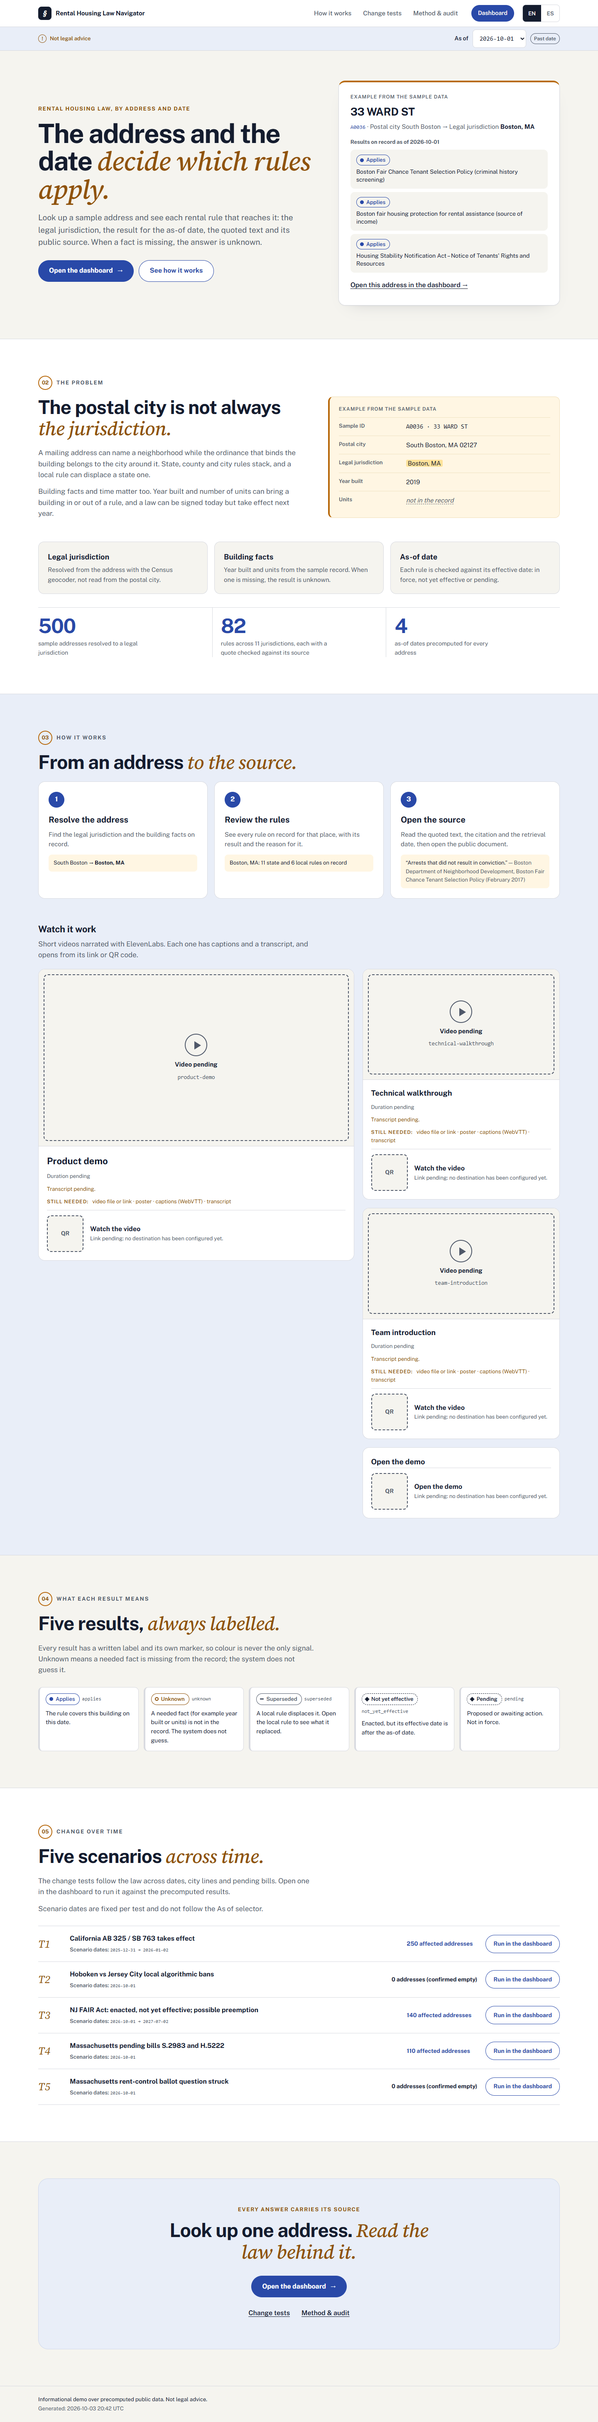
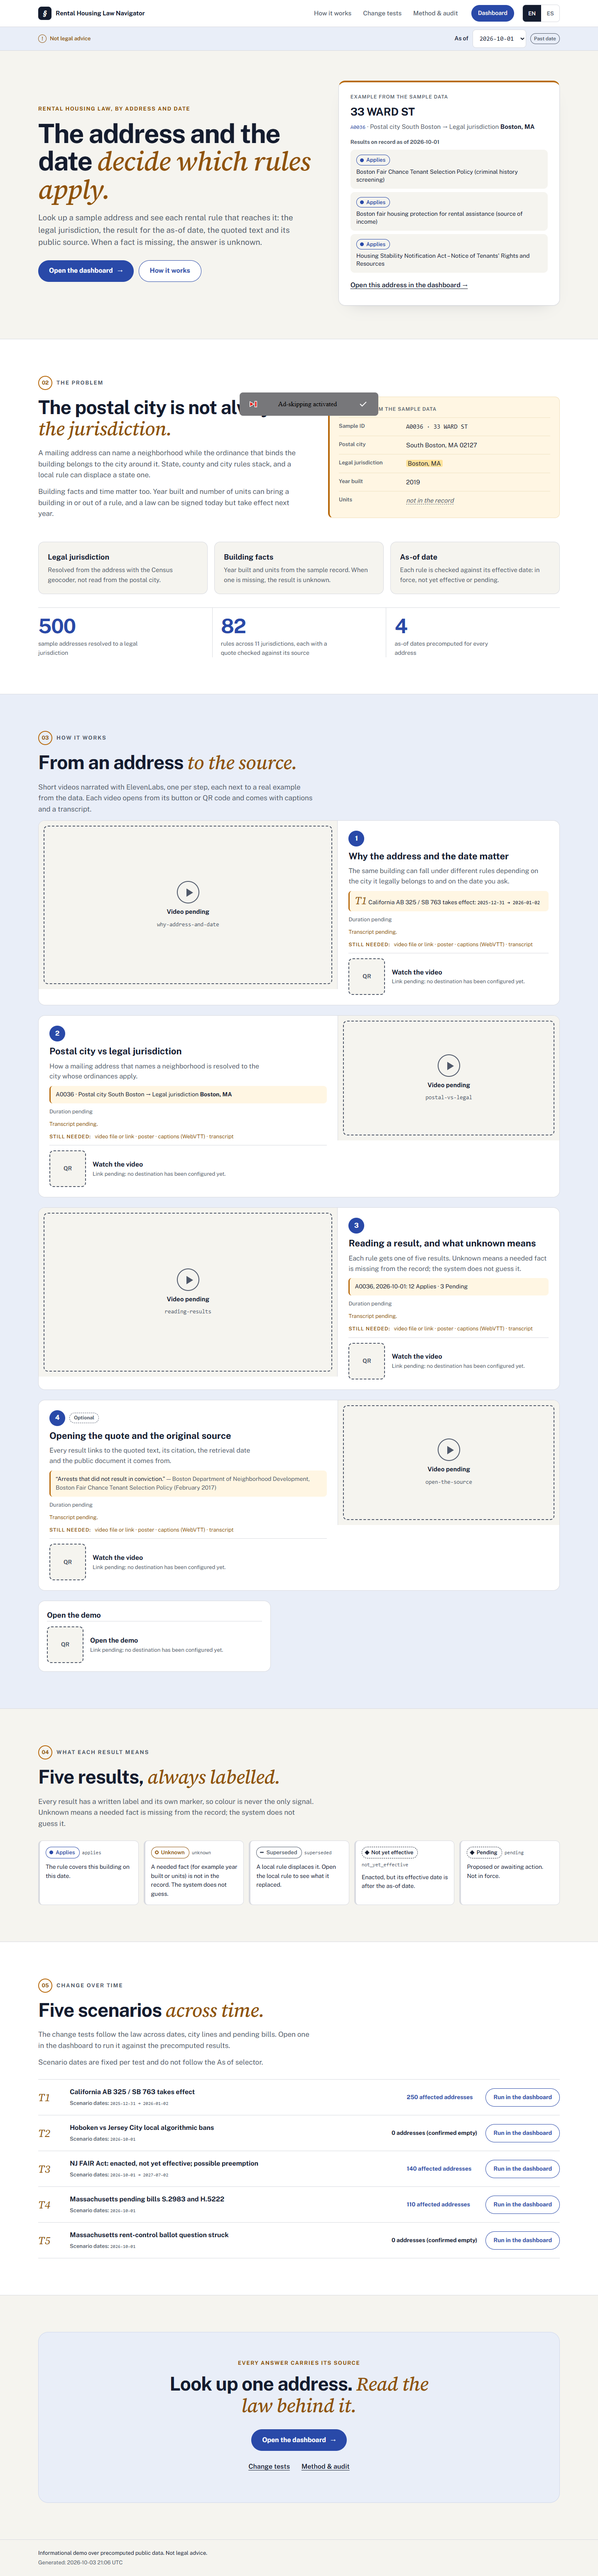
feat: landing storyboard with one explainer video per step

diff --git a/web/rr/views/HomeView.tsx b/web/rr/views/HomeView.tsx
@@ -48,7 +48,23 @@ function Landing({ data }: { data: Dataset }) {
   const places = new Set(data.rules.map((r) => r.jurisdiction)).size;
   const dates = data.manifest.lookup_dates.length ? data.manifest.lookup_dates : data.manifest.demo_dates;
   const dash = (extra: Record<string, string> = {}) => hrefWith("/dashboard", prefs, extra);
-  const [featured, ...more] = media.videos;
+  const t1 = data.changeTests.find((t) => t.as_of_before);
+  const counts = new Map<string, number>();
+  for (const i of items ?? []) counts.set(i.result, (counts.get(i.result) ?? 0) + 1);
+  // A real example from the data for each storyboard video (by id); other ids get none.
+  const proof = (id: string) => {
+    if (!s) return null;
+    const p = (c: ReactNode) => <p className="rr-l-proof">{c}</p>;
+    if (id === "why-address-and-date" && t1)
+      return p(<><span className="rr-test-id">{t1.test_id}</span> {t1.title}: <span className="rr-mono">{t1.as_of_before} → {t1.as_of_after}</span></>);
+    if (id === "postal-vs-legal")
+      return p(<>{s.a.address_id} · {tr.postalCity} {s.a.postal_city} → {tr.legalJurisdiction} <strong>{s.j.jurisdiction}</strong></>);
+    if (id === "reading-results" && counts.size)
+      return p(<>{s.a.address_id}, {asOf}: {[...counts].map(([k, n]) => `${n} ${tr.result[k] ?? k}`).join(" · ")}</>);
+    if (id === "open-the-source")
+      return p(<>“{s.rule.quoted_span!.slice(0, 110)}{s.rule.quoted_span!.length > 110 ? "…" : ""}” <span className="rr-muted">— {s.rule.citation}</span></>);
+    return null;
+  };
   const fact = (v: string | null | undefined) => (blank(v) ? <span className="rr-missing">{tr.notInRecord}</span> : v);
 
   return (
@@ -127,41 +143,22 @@ function Landing({ data }: { data: Dataset }) {
         </dl>
       </Section>
 
-      {/* 3 · How it works */}
+      {/* 3 · How it works: one storyboard video per step, each beside a real example from the data */}
       <Section n={3} label={tr.lCh[1]!} id="how" tone="soft">
-        <h2 className="rr-l-h2">{tr.lHowTitle} <em>{tr.lHowEm}</em></h2>
-        <ol className="rr-l-steps">
-          {tr.lSteps.map(([t, b], i) => (
-            <li key={t}>
-              <span className="rr-l-step-n">{i + 1}</span>
-              <h3>{t}</h3>
-              <p>{b}</p>
-              {s && (
-                <p className="rr-l-proof">
-                  {i === 0 && <>{s.a.postal_city} → <strong>{s.j.jurisdiction}</strong></>}
-                  {i === 1 && <>{s.j.jurisdiction}: {tr.rulesOnRecord(s.rules.filter((r) => r.level === "state").length, s.rules.filter((r) => r.level !== "state").length)}</>}
-                  {i === 2 && <>“{s.rule.quoted_span!.slice(0, 96)}{s.rule.quoted_span!.length > 96 ? "…" : ""}” <span className="rr-muted">— {s.rule.citation}</span></>}
-                </p>
-              )}
-            </li>
+        <div className="rr-l-read">
+          <h2 className="rr-l-h2">{tr.lHowTitle} <em>{tr.lHowEm}</em></h2>
+          <p>{tr.lVideosBody}</p>
+        </div>
+        <div className="rr-l-story">
+          {media.videos.map((v, i) => (
+            <VideoCard key={v.id} video={v} lang={lang} tr={tr} step={i + 1}>
+              {proof(v.id)}
+            </VideoCard>
           ))}
-        </ol>
-
-        <div className="rr-l-media">
-          <div className="rr-l-media-head">
-            <h3 className="rr-l-h3">{tr.lVideosTitle}</h3>
-            <p className="rr-l-read-p">{tr.lVideosBody}</p>
-          </div>
-          <div className="rr-l-media-grid">
-            {featured && <VideoCard video={featured} lang={lang} tr={tr} featured />}
-            <div className="rr-l-media-side">
-              {more.map((v) => <VideoCard key={v.id} video={v} lang={lang} tr={tr} />)}
-              <div className="rr-l-demo">
-                <h3 className="rr-video-title">{tr.openDemo}</h3>
-                <QrBlock label={tr.openDemo} target={media.demo.url} qr={media.demo.qr} tr={tr} />
-              </div>
-            </div>
-          </div>
+        </div>
+        <div className="rr-l-demo">
+          <h3 className="rr-video-title">{tr.openDemo}</h3>
+          <QrBlock label={tr.openDemo} target={media.demo.url} qr={media.demo.qr} tr={tr} />
         </div>
       </Section>
 

diff --git a/web/rr/i18n.ts b/web/rr/i18n.ts
@@ -186,13 +186,12 @@ const en = {
   confirmedEmpty: "0 addresses (confirmed empty)",
   levelState: "state",
   levelLocal: "local",
-  rulesOnRecord: (st: number, lo: number) => `${st} state and ${lo} local rules on record`,
   lKicker: "Rental housing law, by address and date",
   lTitle: "The address and the date",
   lTitleEm: "decide which rules apply.",
   lBody: "Look up a sample address and see each rental rule that reaches it: the legal jurisdiction, the result for the as-of date, the quoted text and its public source. When a fact is missing, the answer is unknown.",
   lCta: "Open the dashboard",
-  lHow: "See how it works",
+  lHow: "How it works",
   sampleResultsTitle: (d: string) => `Results on record as of ${d}`,
   sampleNoResults: (d: string) => `Results for ${d} are not available yet; open the dashboard to see the rules on record.`,
   openAddress: "Open this address in the dashboard",
@@ -212,13 +211,8 @@ const en = {
   statDates: "as-of dates precomputed for every address",
   lHowTitle: "From an address",
   lHowEm: "to the source.",
-  lSteps: [
-    ["Resolve the address", "Find the legal jurisdiction and the building facts on record."],
-    ["Review the rules", "See every rule on record for that place, with its result and the reason for it."],
-    ["Open the source", "Read the quoted text, the citation and the retrieval date, then open the public document."],
-  ] as [string, string][],
-  lVideosTitle: "Watch it work",
-  lVideosBody: "Short videos narrated with ElevenLabs. Each one has captions and a transcript, and opens from its link or QR code.",
+  lVideosBody: "Short videos narrated with ElevenLabs, one per step, each next to a real example from the data. Each video opens from its button or QR code and comes with captions and a transcript.",
+  optionalVideo: "Optional",
   openDemo: "Open the demo",
   watchVideo: "Watch the video",
   qrPending: "Link pending: no destination has been configured yet.",
@@ -422,13 +416,12 @@ const es: typeof en = {
   confirmedEmpty: "0 direcciones (vacío confirmado)",
   levelState: "estatales",
   levelLocal: "locales",
-  rulesOnRecord: (st, lo) => `${st} reglas estatales y ${lo} locales en el registro`,
   lKicker: "Ley de vivienda en alquiler, por dirección y fecha",
   lTitle: "La dirección y la fecha",
   lTitleEm: "deciden qué reglas aplican.",
   lBody: "Consulta una dirección de muestra y ve cada regla de alquiler que la alcanza: la jurisdicción legal, el resultado para la fecha de consulta, el texto citado y su fuente pública. Si falta un dato, la respuesta es desconocido.",
   lCta: "Abrir el dashboard",
-  lHow: "Ver cómo funciona",
+  lHow: "Cómo funciona",
   sampleResultsTitle: (d) => `Resultados en el registro al ${d}`,
   sampleNoResults: (d) => `Los resultados para ${d} aún no están disponibles; abre el dashboard para ver las reglas del registro.`,
   openAddress: "Abrir esta dirección en el dashboard",
@@ -448,13 +441,8 @@ const es: typeof en = {
   statDates: "fechas de consulta precalculadas para cada dirección",
   lHowTitle: "De una dirección",
   lHowEm: "a la fuente.",
-  lSteps: [
-    ["Resolver la dirección", "Encontrar la jurisdicción legal y los datos del edificio en el registro."],
-    ["Revisar las reglas", "Ver cada regla del registro para ese lugar, con su resultado y el motivo."],
-    ["Abrir la fuente", "Leer el texto citado, la cita y la fecha de recuperación, y abrir el documento público."],
-  ],
-  lVideosTitle: "Míralo en acción",
-  lVideosBody: "Videos cortos narrados con ElevenLabs. Cada uno tiene subtítulos y transcripción, y se abre desde su enlace o código QR.",
+  lVideosBody: "Videos cortos narrados con ElevenLabs, uno por paso, cada uno junto a un ejemplo real de los datos. Cada video se abre desde su botón o código QR y trae subtítulos y transcripción.",
+  optionalVideo: "Opcional",
   openDemo: "Abrir la demo",
   watchVideo: "Ver el video",
   qrPending: "Enlace pendiente: aún no se configuró un destino.",

diff --git a/web/rr/rr-home.css b/web/rr/rr-home.css
@@ -57,17 +57,19 @@
 .rr-l-stats dd { margin: 8px 0 0; color: var(--rr-ink-2); font-size: 14px; max-width: 30ch; }
 
 /* How it works */
-.rr-l-steps { list-style: none; margin: 8px 0 0; padding: 0; display: grid; grid-template-columns: repeat(3, 1fr); gap: 16px; }
-.rr-l-steps li { background: var(--rr-surface); border: 1px solid var(--rr-border); border-radius: 16px; padding: 24px; display: grid; gap: 8px; align-content: start; }
-.rr-l-step-n { width: 38px; height: 38px; border-radius: 50%; display: grid; place-items: center; background: var(--rr-stamp); color: #fff; font-weight: 700; }
-.rr-l-steps h3 { margin: 6px 0 0; font-size: 20px; }
-.rr-l-steps p { margin: 0; color: var(--rr-ink-2); font-size: 15px; }
-.rr-l-steps .rr-l-proof { margin-top: 6px; padding: 10px 12px; background: var(--rr-evidence); border-radius: 8px; color: var(--rr-ink); font-size: 13px; }
-.rr-l-media { margin-top: 56px; }
-.rr-l-media-head { max-width: 68ch; margin-bottom: 20px; }
-.rr-l-media-grid { display: grid; grid-template-columns: minmax(0, 1.6fr) minmax(0, 1fr); gap: 20px; align-items: start; }
-.rr-l-media-side { display: grid; gap: 20px; }
-.rr-l-demo { background: var(--rr-surface); border: 1px solid var(--rr-border); border-radius: 16px; padding: 20px; }
+/* How it works: one row per storyboard video (video beside its step text), alternating sides. */
+.rr-l-step-n { width: 38px; height: 38px; border-radius: 50%; display: inline-grid; place-items: center; background: var(--rr-stamp); color: #fff; font-weight: 700; }
+.rr-l-story { display: grid; gap: 24px; margin-top: 12px; }
+.rr-video-row { grid-template-columns: minmax(0, 1.35fr) minmax(0, 1fr); align-items: stretch; }
+.rr-video-row .rr-video-frame { border-bottom: 0; border-right: 1px solid var(--rr-border); align-self: start; }
+.rr-l-story .rr-video-row:nth-child(even) .rr-video-frame { order: 2; border-right: 0; border-left: 1px solid var(--rr-border); }
+.rr-video-row .rr-video-meta { padding: 24px 26px; align-content: start; }
+.rr-video-row .rr-video-title { font-size: 22px; line-height: 1.25; }
+.rr-video-step { margin: 0; display: flex; align-items: center; gap: 10px; }
+.rr-video-optional { font-size: 12px; font-weight: 700; padding: 2px 10px; border-radius: 999px; border: 1px dashed var(--rr-ink-2); color: var(--rr-ink-2); }
+.rr-video-context { margin: 0; color: var(--rr-ink-2); font-size: 16px; max-width: 52ch; }
+.rr-l-proof { margin: 0; padding: 10px 12px; background: var(--rr-evidence); border-left: 3px solid var(--rr-marigold); border-radius: 8px; color: var(--rr-ink); font-size: 14px; }
+.rr-l-demo { margin-top: 24px; max-width: 560px; background: var(--rr-surface); border: 1px solid var(--rr-border); border-radius: 16px; padding: 20px; }
 
 /* Video card */
 .rr-video { background: var(--rr-surface); border: 1px solid var(--rr-border); border-radius: 16px; overflow: hidden; display: grid; }
@@ -119,12 +121,12 @@
 .rr-l-close-links { display: flex; flex-wrap: wrap; justify-content: center; gap: 4px 28px; margin: 16px 0 0; }
 
 @media (max-width: 1080px) {
-  .rr-l-media-grid { grid-template-columns: 1fr; }
-  .rr-l-media-side { grid-template-columns: repeat(auto-fit, minmax(300px, 1fr)); }
+  .rr-video-row { grid-template-columns: 1fr; }
+  .rr-video-row .rr-video-frame, .rr-l-story .rr-video-row:nth-child(even) .rr-video-frame { order: 0; border: 0; border-bottom: 1px solid var(--rr-border); }
 }
 @media (max-width: 900px) {
   .rr-l-hero-grid, .rr-l-split { grid-template-columns: 1fr; gap: 32px; }
-  .rr-l-steps, .rr-l-factors { grid-template-columns: 1fr; }
+  .rr-l-factors { grid-template-columns: 1fr; }
   .rr-l-tests li { grid-template-columns: 48px minmax(0, 1fr); }
   .rr-l-avail, .rr-l-run { grid-column: 2; justify-self: start; }
 }

diff --git a/web/rr/components/VideoCard.tsx b/web/rr/components/VideoCard.tsx
@@ -2,7 +2,7 @@
 // VideoCard.tsx: one configured video: native player (controls, no autoplay, poster, WebVTT captions),
 // title, duration, transcript and its QR. Without a configured file or link it renders a labelled
 // placeholder that names what is missing; nothing is simulated.
-import { useEffect, useState } from "react";
+import { useEffect, useState, type ReactNode } from "react";
 import type { Lang } from "../types";
 import type { Dict } from "../i18n";
 import type { VideoConfig } from "../landing";
@@ -14,6 +14,10 @@ export interface VideoCardProps {
   tr: Dict;
   /** Large layout for the featured video. */
   featured?: boolean;
+  /** Storyboard step number; renders the card as a row (video beside its text). */
+  step?: number;
+  /** Extra content under the context, e.g. a real example from the data. */
+  children?: ReactNode;
 }
 
 function Transcript({ src, tr }: { src: string | null; tr: Dict }) {
@@ -31,8 +35,9 @@ function Transcript({ src, tr }: { src: string | null; tr: Dict }) {
   );
 }
 
-export function VideoCard({ video: v, lang, tr, featured }: VideoCardProps) {
+export function VideoCard({ video: v, lang, tr, featured, step, children }: VideoCardProps) {
   const title = v.title[lang] ?? v.title.en;
+  const context = v.context?.[lang] ?? v.context?.en ?? null;
   const caption = v.captions[lang] ?? v.captions.en;
   const transcript = v.transcript[lang] ?? v.transcript.en;
   const playable = !!v.src;
@@ -44,7 +49,7 @@ export function VideoCard({ video: v, lang, tr, featured }: VideoCardProps) {
   ].filter(Boolean) as string[];
 
   return (
-    <article className={`rr-video ${featured ? "rr-video-featured" : ""}`} aria-labelledby={`v-${v.id}`}>
+    <article className={`rr-video ${featured ? "rr-video-featured" : ""} ${step ? "rr-video-row" : ""}`} aria-labelledby={`v-${v.id}`}>
       <div className="rr-video-frame">
         {playable ? (
           <video controls preload="none" playsInline poster={v.poster ?? undefined} className="rr-video-el">
@@ -62,7 +67,15 @@ export function VideoCard({ video: v, lang, tr, featured }: VideoCardProps) {
         )}
       </div>
       <div className="rr-video-meta">
+        {step && (
+          <p className="rr-video-step">
+            <span className="rr-l-step-n">{step}</span>
+            {v.optional && <span className="rr-video-optional">{tr.optionalVideo}</span>}
+          </p>
+        )}
         <h3 id={`v-${v.id}`} className="rr-video-title">{title}</h3>
+        {context && <p className="rr-video-context">{context}</p>}
+        {children}
         <p className="rr-meta">
           {v.duration ? <><span className="rr-label">{tr.duration}</span> {v.duration}</> : tr.durationPending}
           {v.src && !caption && <> · {tr.noCaptions}</>}

diff --git a/web/rr/landing.ts b/web/rr/landing.ts
@@ -7,6 +7,8 @@ export interface LangPair { en: string | null; es: string | null }
 export interface VideoConfig {
   id: string;
   title: { en: string; es: string };
+  context: LangPair;
+  optional: boolean;
   src: string | null;
   url: string | null;
   poster: string | null;

diff --git a/docs/DESIGN.md b/docs/DESIGN.md
@@ -67,6 +67,17 @@ only signal.
 
 Videos and QR destinations come from `web/landing.config.json` (see `web/README.md`). Until they are set, the page shows labelled placeholders.
 
+**Landing storyboard (section 3, "How it works")**: one short ElevenLabs video per row, beside its
+title, context and a real example read from the data. These are separate from the three submission
+videos in `VIDEO_SCRIPTS.md`.
+
+| # | id | Topic | Example shown beside it |
+|---|---|---|---|
+| 1 | `why-address-and-date` | Why the rules change with address and date | T1 title and its scenario dates |
+| 2 | `postal-vs-legal` | Postal city vs legal jurisdiction | A0036: South Boston → Boston, MA |
+| 3 | `reading-results` | Reading a result; `unknown` = missing fact, never guessed | A0036 result counts at the as-of date (only if lookups exist) |
+| 4 (optional) | `open-the-source` | Opening the quote and the original source | Quoted span + citation of a sample rule |
+
 Type: system sans for UI; one serif italic (`Georgia`, `"Iowan Old Style"`) for the accent word.
 Fluid `h1` with `clamp(2rem, 4vw, 3.25rem)`, 16px body, monospace only for citations and address ids.
 Spacing 4 / 8 / 12 / 16 / 24 / 40 / 64. Radius 8 / 12 / 20 / pill. Targets ≥ 44px.

diff --git a/web/README.md b/web/README.md
@@ -49,6 +49,8 @@ The landing reads `web/landing.config.json`. `scripts/landing-media.mjs` runs be
 |---|---|
 | `site_url` | Public https URL of the deployed site (for example the Vercel URL). It builds QR codes for local video files and the default demo link (`<site_url>/dashboard/`). |
 | `demo.url` | Optional https link for the "Open the demo" QR. It overrides `site_url`. |
+| `videos[].title`, `videos[].context` | Title and one-line context (EN/ES) shown beside the video. The four storyboard entries are already filled in. |
+| `videos[].optional` | `true` marks a video the story can do without (video 4). It shows an "Optional" tag. |
 | `videos[].src` | An MP4 (H.264) under `web/public/media/` (for example `media/product-demo.mp4`), or an https URL to an MP4 file. It plays in a native player with controls and no autoplay. |
 | `videos[].url` | Optional https page for the video (YouTube, Drive and so on). It is used for the button and the QR. |
 | `videos[].poster` | A JPG or PNG under `web/public/media/`, or an https URL. |
